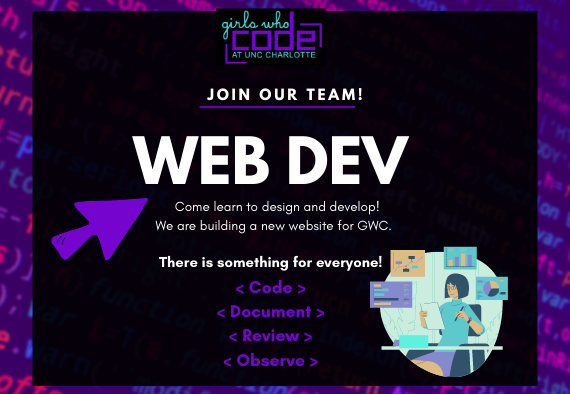
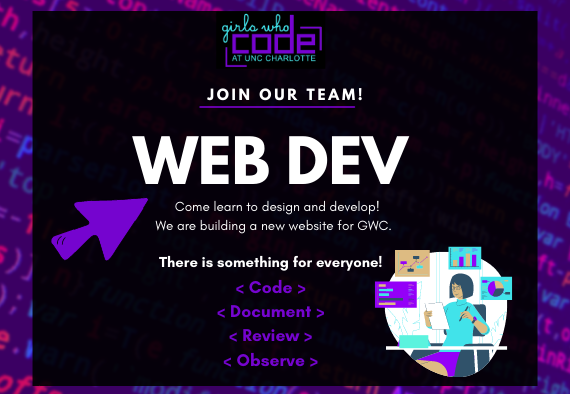
updated buttons and web flyer

Changed region(s): [[0.6263, 0.6091, 0.9246, 0.9746], [0.3877, 0.0, 0.5667, 0.1827]]

diff --git a/index.html b/index.html
@@ -273,8 +273,9 @@ https://templatemo.com/tm-531-reflux
                 <br />✨ Member-only Events
               </p>
               <br />
-              <a href="https://ninerengage.uncc.edu/organization/gwcuncc" target="_blank">
-                <button type="button" class="btn btn-primary">Sign Up</button>
+              <div class="white-button">
+              <a href="https://ninerengage.uncc.edu/organization/gwcuncc" target="_blank">Sign Up</a>
+              </div>
             </div>
           </div>
 
@@ -717,9 +718,9 @@ https://templatemo.com/tm-531-reflux
                 events you're interested in.
                 <strong>This form will close August 13th at 8:00pm (EST).</strong>
                 <br /><br />
-                <a href="https://bit.ly/3fb3Q6U" target="_blank">
-                  <button type="button" class="btn btn-primary">Survey</button>
-                </a>
+                <div class="white-button">
+                <a href="https://bit.ly/3fb3Q6U" target="_blank">Survey</a>
+              </div>
               </p>
               <br />
             </div>
@@ -765,10 +766,10 @@ https://templatemo.com/tm-531-reflux
                 perks
                 of being on the team in the slides linked below.
               </p>
+            <div class="white-button">
               <a href="https://docs.google.com/forms/d/e/1FAIpQLSevL8tFNnicGdHIA8o-tAv11zXYOaM0E8yZG6LqMgd69T7JPw/viewform"
-                target="_blank">
-                <button type="button" class="btn btn-primary">Sign Up</button>
-              </a>
+                target="_blank">Sign Up </a>
+            </div>
             </div>
           </div>
         </div>

diff --git a/assets/css/templatemo-style.css b/assets/css/templatemo-style.css
@@ -333,10 +333,11 @@ html {
     letter-spacing: 0.5px;
     text-transform: uppercase;
     transition: all 0.5s;
+    border-radius: 3px;
 }
 
 .white-button a:hover {
-    background-color: #030303;
+    background-color: #6808a8;
     color: #fff;
 }
 
